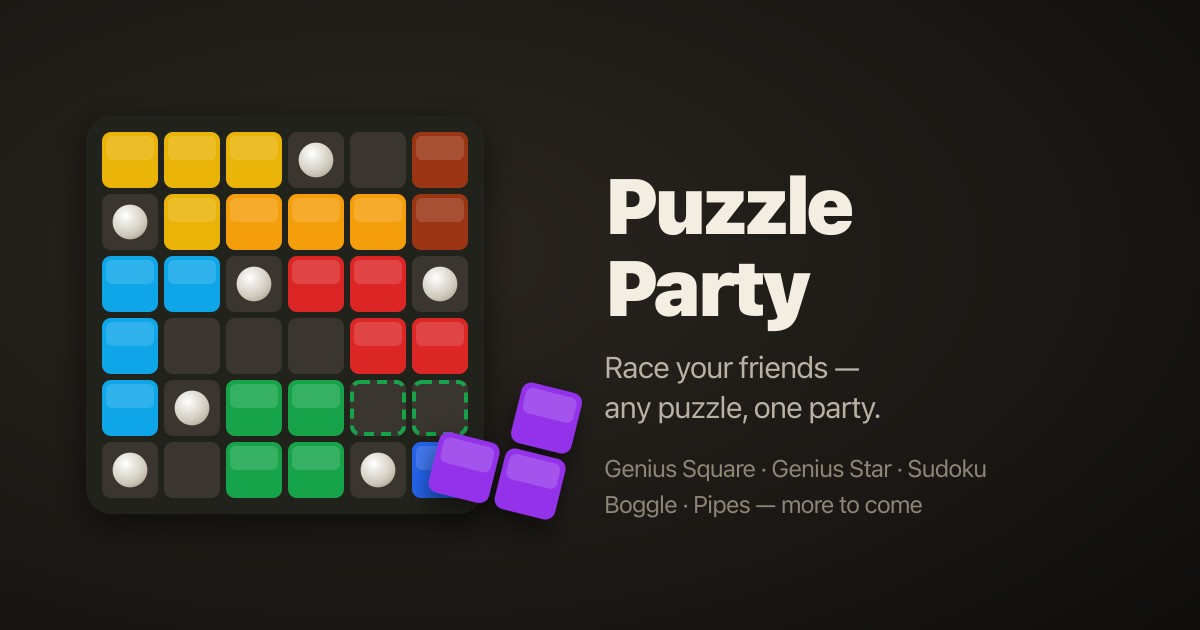
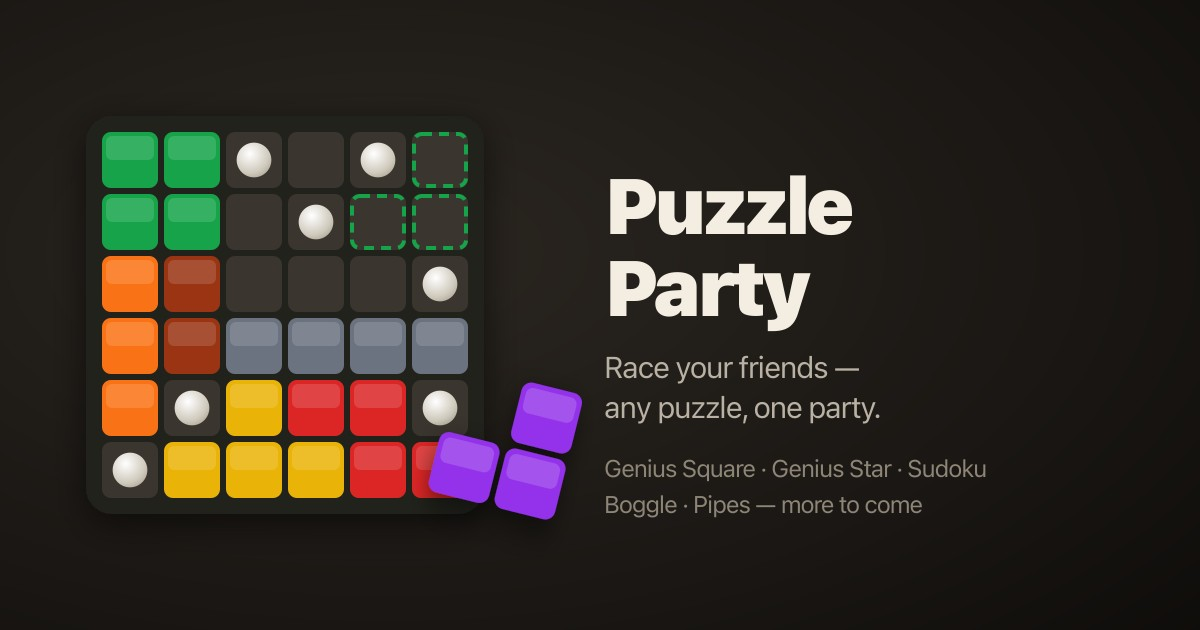
Feedback round 2: bug fixes, legal hero art, end party, options-on-card
Bugs (from in-app feedback):
- Desktop layout: explicit grid rows — scores+chat stack tight beside the
  board, chat grows to 44vh, main widened to 1100px (AUT-391)
- Boggle: first tap on a letter never started a chain (empty-path
  indexOf/-1 collision in tap()) (AUT-392)
- Right-click rotates the held piece in Genius Square + Genius Star (AUT-393)
- All 13 games show an 'ⓘ how to play' explainer, auto-open on first
  play; wordsearch text confirms the list is the complete set (AUT-394)
- Chat URLs render as safe clickable links (AUT-395)

Also:
- Hero/OG art rebuilt from a real solver solution — previous render had
  two 1x2s, no 1x4, and color-blobbed adjacent pieces; line3 recolored
  orange game-wide to stop the yellow/amber blob
- Host 'End party': kicks everyone, wipes state, delists (tested)
- Game options panel attaches to the selected card instead of sitting
  below the whole shelf
- /api/feedback/mark route so swept reports get tagged with their issue

Changed region(s): [[0.0617, 0.181, 0.4008, 0.8143]]

diff --git a/public/app.js b/public/app.js
@@ -87,7 +87,8 @@ function connect() {
 		if (m.t === 'kicked') {
 			kicked = true;
 			ws.close();
-			$('room-label').textContent = m.reason;
+			$('room-label').textContent = m.reason + ' — taking you home…';
+			setTimeout(() => location.href = '/', 1800);
 		}
 	});
 	ws.addEventListener('close', () => {
@@ -126,7 +127,9 @@ let pickedGame = localStorage.getItem('gs-game') || 'gs';
 
 function renderGameCards() {
 	const wrap = $('game-cards');
+	$('master-controls').appendChild($('card-panel'));	// rescue before wipe
 	wrap.innerHTML = '';
+	let pickedEl = null;
 	const locked = new Set(game?.lockedGames || []);
 	if (locked.has(pickedGame)) pickedGame = Object.keys(GAMES).find(k => !locked.has(k)) || 'gs';
 	for (const mod of Object.values(GAMES)) {
@@ -153,7 +156,10 @@ function renderGameCards() {
 		});
 		card.appendChild(lk);
 		wrap.appendChild(card);
+		if (mod.key === pickedGame) pickedEl = card;
 	}
+	// options live right under the selected card's row, not at the bottom
+	if (pickedEl) pickedEl.insertAdjacentElement('afterend', $('card-panel'));
 	renderGameOptions();
 }
 
@@ -296,9 +302,43 @@ $('btn-clear-room').addEventListener('click', () => send({ t: 'clearRound' }));
 $('btn-reset-scores').addEventListener('click', () => {
 	if (confirm('Reset all scores to zero?')) send({ t: 'resetScores' });
 });
+$('btn-end-party').addEventListener('click', () => {
+	if (!confirm('End the party for everyone? Scores and chat are wiped.')) return;
+	localStorage.setItem('gs-parties', JSON.stringify(
+		JSON.parse(localStorage.getItem('gs-parties') || '[]').filter(q => q.code !== roomCode)));
+	send({ t: 'endParty' });
+});
 
 // party settings (master)
 $('public-toggle').addEventListener('change', ev => send({ t: 'visibility', public: ev.target.checked }));
+
+// ---------- how to play ----------
+const HELP = {
+	gs: 'Fit all nine pieces around the pearl blockers. Tap a piece to pick it up (tap it again, right-click, or hit ⟳/R to rotate), tap the board to preview, tap the same spot to confirm. Tap a placed piece to take it back. First to fill every cell wins.',
+	star: 'Same idea, but triangles: tile the whole star around the seven pearls with all 11 pieces. Tap a piece, tap again (or right-click / ⟳) to rotate, two-tap the board to place. First to fill the star wins.',
+	sudoku: 'Every row, column and 3×3 box must contain 1–9 exactly once. Tap a cell, then a number on the pad (⌫ erases). Conflicts get highlighted. First correct grid wins.',
+	kenken: 'Fill the grid with 1–N: no repeats in any row or column, and each outlined cage must combine to its little target using the shown operation (− and ÷ in either order). First correct grid wins.',
+	boggle: 'Build words of 3+ letters from adjacent tiles (diagonals count, no reusing a tile): tap letters then Submit, or just type a word and press Enter. Longer words score more. Highest score when time runs out.',
+	pipes: 'Every tile is a bit of pipe. Tap a tile to rotate it. Reconnect everything into one network with no open ends — connected pipe lights up as you go. First to restore the network wins.',
+	nonogram: 'The numbers are runs of filled cells in that row/column, in order — "2 1" means 2 filled, a gap, then 1. Tap to fill, tap again for an ✕ note (just a note), again to clear. First to satisfy every clue wins.',
+	lightsout: 'Tapping a light toggles it AND its four neighbours. Turn every light off — first to a dark board wins.',
+	mines: 'Numbers count the mines touching that square. Tap to reveal; use the flag toggle (or long-press) to mark suspected mines. Hitting a mine costs a 10-second lockout. First to reveal every safe square wins.',
+	wordsearch: 'Every word on the list below is hidden in the grid — across, down or diagonally, forwards or backwards. The list is the complete set. Tap a word\'s first and last letter to claim it; find them all for a +10 bonus. Highest score when time runs out.',
+	memory: 'Tap two cards: a pair stays up, a miss flips back. Everyone has the same shuffle, so it\'s pure memory. First to match every pair wins.',
+	trio: 'A trio is 3 cards where each feature — count, shape, fill, colour — is all-same or all-different. Tap 3 cards to claim one (+3; a wrong guess is −1, a hint costs 2). Highest score when time runs out.',
+	g2048: 'Swipe or use arrow keys to slide the tiles; equal tiles merge and score. No game over — just rack up the biggest score before the clock stops.',
+};
+
+function showHelp(gameKey) {
+	const el = $('game-help');
+	$('game-help-text').textContent = HELP[gameKey] || '';
+	el.hidden = !HELP[gameKey];
+	// auto-open the first time you ever play each game
+	const seen = JSON.parse(localStorage.getItem('gs-help-seen') || '{}');
+	el.open = !seen[gameKey];
+	seen[gameKey] = true;
+	localStorage.setItem('gs-help-seen', JSON.stringify(seen));
+}
 
 // ---------- round lifecycle ----------
 let handle = null;			// mounted game module instance
@@ -319,6 +359,7 @@ function startRoundUI(g) {
 	$('game-root').innerHTML = '';
 	setStatus('');
 	$('round-game-label').textContent = g.puzzle.summary || mod?.name || g.puzzle.game;
+	showHelp(g.puzzle.game);
 	startTime = performance.now();
 	clearInterval(timerHandle);
 
@@ -662,7 +703,16 @@ function renderChat(chat = []) {
 		row.className = 'chat-msg' + (m.name === me.name ? ' mine' : '');
 		const who = document.createElement('b');
 		who.textContent = m.name;
-		row.append(who, document.createTextNode(' ' + m.text));
+		row.append(who, document.createTextNode(' '));
+		// URLs become real links; everything else stays inert text
+		for (const part of m.text.split(/(https?:\/\/[^\s]+)/g)) {
+			if (/^https?:\/\//.test(part)) {
+				const a = document.createElement('a');
+				a.href = part; a.textContent = part;
+				a.target = '_blank'; a.rel = 'noopener noreferrer';
+				row.appendChild(a);
+			} else if (part) row.appendChild(document.createTextNode(part));
+		}
 		box.appendChild(row);
 	}
 	box.scrollTop = box.scrollHeight;

diff --git a/public/style.css b/public/style.css
@@ -88,7 +88,11 @@ button.big { font-size: 1.1rem; padding: .7rem 1.6rem; margin: .8rem 0 .4rem; wi
 .game-card .gc-icon { font-size: 1.5rem; }
 .game-card b { font-size: .85rem; }
 .game-card small { color: var(--muted); font-size: .68rem; line-height: 1.25; }
-#game-options { display: flex; flex-direction: column; gap: .4rem; margin: .5rem 0 .7rem; }
+#card-panel {
+	grid-column: 1 / -1; background: var(--surface-2); border: 2px solid var(--accent);
+	border-radius: 12px; padding: .6rem .7rem; margin: -.1rem 0 .2rem;
+}
+#game-options { display: flex; flex-direction: column; gap: .4rem; margin: 0 0 .6rem; }
 #game-options label { font-size: .9rem; }
 #agree-row { display: flex; gap: .5rem; margin-top: .5rem; }
 
@@ -101,6 +105,10 @@ button.big { font-size: 1.1rem; padding: .7rem 1.6rem; margin: .8rem 0 .4rem; wi
 #game-status.bad { color: var(--bad); font-weight: 700; }
 #game-status.won { color: var(--gold); font-weight: 800; }
 #round-game-label { margin: 0; text-align: center; }
+#game-help { margin: 0; max-width: 470px; text-align: center; font-size: .82rem; }
+#game-help summary { cursor: pointer; color: var(--accent); font-weight: 600; list-style: none; }
+#game-help[open] summary { margin-bottom: .25rem; }
+.chat-msg a { color: var(--accent); word-break: break-all; }
 
 button, select, input {
 	font: inherit; padding: .45rem .8rem; border-radius: 10px;
@@ -223,12 +231,18 @@ dialog::backdrop { background: rgba(0,0,0,.45); }
 #qr-box svg { width: min(70vw, 280px); height: auto; border-radius: 8px; }
 #qr-link { word-break: break-all; }
 
-/* wider screens: two columns */
+/* wider screens: two columns — explicit rows so the side panels stack
+   tight under each other instead of auto-flowing below the tall board */
 @media (min-width: 760px) {
-	main { max-width: 880px; display: grid; grid-template-columns: 1fr 280px; align-items: start; }
+	main {
+		max-width: 1100px; display: grid; align-items: start;
+		grid-template-columns: minmax(0, 1fr) 360px;
+		grid-template-rows: auto auto auto auto 1fr;
+	}
 	#landing, #room-strip, #banner { grid-column: 1 / -1; }
-	#lobby { grid-column: 1; }
-	#players-panel { grid-column: 2; }
-	#chat-panel { grid-column: 2; }
-	#play-area { grid-column: 1; }
+	#lobby, #play-area { grid-column: 1; grid-row: 3 / span 3; }
+	#players-panel { grid-column: 2; grid-row: 3; }
+	#chat-panel { grid-column: 2; grid-row: 4; }
+	#chat-log { max-height: 44vh; }
+	.player .pmini { min-width: 84px; }
 }

diff --git a/public/index.html b/public/index.html
@@ -63,10 +63,12 @@
 		<h2 id="lobby-title"></h2>
 		<div id="master-controls" hidden>
 			<div id="game-cards"></div>
-			<div id="game-options"></div>
-			<div id="round-buttons">
-				<button id="btn-propose" class="primary">Set up the round</button>
-				<button id="btn-add-playlist">+ Playlist</button>
+			<div id="card-panel">
+				<div id="game-options"></div>
+				<div id="round-buttons">
+					<button id="btn-propose" class="primary">Set up the round</button>
+					<button id="btn-add-playlist">+ Playlist</button>
+				</div>
 			</div>
 		</div>
 		<div id="playlist-box" hidden></div>
@@ -94,6 +96,7 @@
 			<span id="game-status"></span>
 		</div>
 		<p id="round-game-label" class="muted"></p>
+		<details id="game-help" class="muted"><summary>ⓘ how to play</summary><span id="game-help-text"></span></details>
 	</section>
 
 	<!-- room chat -->
@@ -119,6 +122,7 @@
 			<button id="btn-end-round">End round</button>
 			<button id="btn-clear-room">Clear round</button>
 			<button id="btn-reset-scores">Reset scores</button>
+			<button id="btn-end-party">End party</button>
 		</div>
 	</section>
 </main>

diff --git a/src/room.js b/src/room.js
@@ -342,6 +342,18 @@ export class Room {
 			}
 			await this.putGame(g);
 			break;
+		case 'endParty': {
+			// Host disbands the party: everyone out, state gone, delisted.
+			if (!isMaster) break;
+			await this.heartbeatDirectory({ ...g, isPublic: false }, 0);
+			for (const sock of this.state.getWebSockets()) {
+				try { sock.send(JSON.stringify({ t: 'kicked', reason: 'the host ended the party' })); } catch {}
+				sock.close(4002, 'party ended');
+			}
+			await this.state.storage.deleteAlarm();
+			await this.state.storage.deleteAll();
+			return;
+		}
 		case 'resetScores':
 			if (!isMaster) break;
 			g.scores = Object.fromEntries(Object.keys(g.scores).map(n => [n, 0]));

diff --git a/public/solver.js b/public/solver.js
@@ -36,7 +36,7 @@ export const union = (a, b) => [(a[0] | b[0]) >>> 0, (a[1] | b[1]) >>> 0];
 export const PIECES = [
 	{ key: 'single',   color: '#2563eb', orients: [[[0,0]]] },
 	{ key: 'line2',    color: '#9a3412', orients: [[[0,0],[0,1]], [[0,0],[1,0]]] },
-	{ key: 'line3',    color: '#f59e0b', orients: [[[0,0],[0,1],[0,2]], [[0,0],[1,0],[2,0]]] },
+	{ key: 'line3',    color: '#f97316', orients: [[[0,0],[0,1],[0,2]], [[0,0],[1,0],[2,0]]] },
 	{ key: 'line4',    color: '#6b7280', orients: [[[0,0],[0,1],[0,2],[0,3]], [[0,0],[1,0],[2,0],[3,0]]] },
 	{ key: 'square',   color: '#16a34a', orients: [[[0,0],[0,1],[1,0],[1,1]]] },
 	{ key: 'lblock2',  color: '#9333ea', orients: [

diff --git a/src/worker.js b/src/worker.js
@@ -98,6 +98,8 @@ export default {
 					{ method: 'POST', body: JSON.stringify({ id: entry.id, issue }) });
 			return Response.json({ ok: true, id: entry.id, issue });
 		}
+		if (url.pathname === '/api/feedback/mark' && request.method === 'POST')
+			return fbStub().fetch('https://feedback/mark-filed', { method: 'POST', body: await request.text() });
 		const fbImg = url.pathname.match(/^\/api\/feedback\/img\/([a-z0-9-]{12})$/);
 		if (fbImg) return fbStub().fetch(`https://feedback/img/${fbImg[1]}`);
 		if (url.pathname === '/api/feedback/list')

diff --git a/public/games/genius-square.js b/public/games/genius-square.js
@@ -184,6 +184,11 @@ export default {
 
 		function rotate() { orientIdx++; renderTray(); renderGhost(); }
 		root.querySelector('.gs-rotate').addEventListener('click', rotate);
+		root.addEventListener('contextmenu', e => {	// right-click spins the held piece
+			if (selected === null) return;
+			e.preventDefault();
+			rotate();
+		});
 		const onKey = e => {
 			if (e.key === 'r' || e.key === 'R' || e.key === 'f' || e.key === 'F') rotate();
 		};

diff --git a/public/games/star.js b/public/games/star.js
@@ -443,6 +443,11 @@ export default {
 		}
 
 		function rotate() { orientIdx++; renderTray(); renderGhost(); }
+		root.addEventListener('contextmenu', e => {	// right-click spins the held piece
+			if (selected === null) return;
+			e.preventDefault();
+			rotate();
+		});
 		root.querySelector('.st-rotate').addEventListener('click', rotate);
 		const onKey = e => {
 			if (e.key === 'r' || e.key === 'R' || e.key === 'f' || e.key === 'F') rotate();

diff --git a/public/games/boggle.js b/public/games/boggle.js
@@ -206,7 +206,7 @@ export default {
 
 		function tap(i) {
 			const k = path.indexOf(i);
-			if (k === path.length - 1) path.pop();	// tap head again to undo
+			if (k >= 0 && k === path.length - 1) path.pop();	// tap head again to undo
 			else if (k >= 0) return;	// already used
 			else if (path.length && !ADJ[path[path.length - 1]].includes(i)) return;	// not adjacent
 			else path.push(i);
